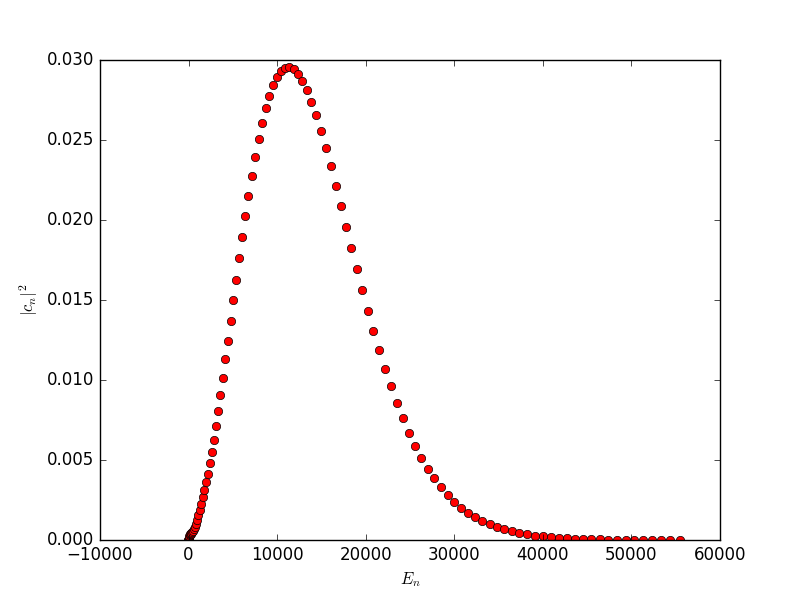
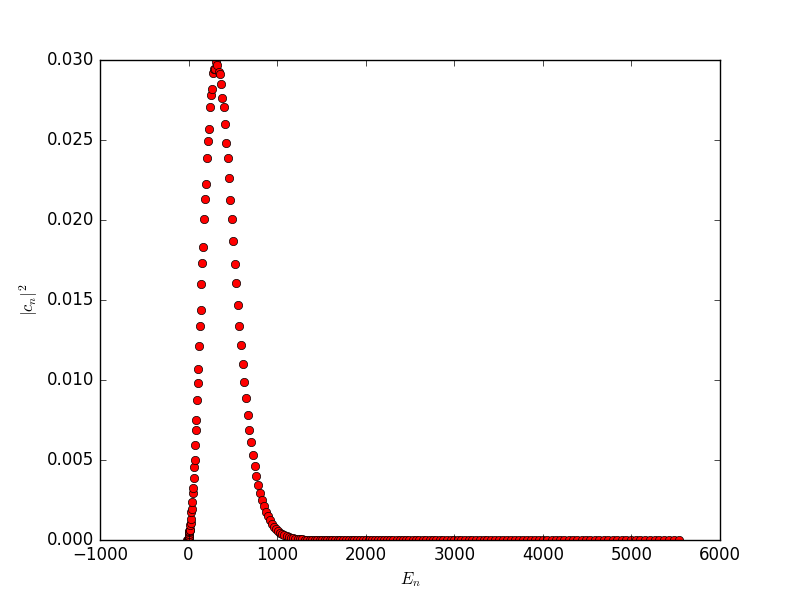
Make energy spectrum for WiW wave package and change number of cn's to 200

diff --git a/Python/WiW_wavePackageEnergySpectrum.py b/Python/WiW_wavePackageEnergySpectrum.py
@@ -15,14 +15,18 @@ x0 = 2.5;
 sigma = 0.1;
 k0 = 25;
 
-# Normalize the custom wave function and get the cn's
+# Normalize the custom wave function
 fun = np.exp(-1/2 * (x-x0)**2/sigma**2) * np.exp(-1j*k0*x)
 
 A = 1/np.sqrt(np.trapz(np.abs(fun)**2, x = x))
 
 fun = A * fun
 
-cn = getcn(x, fun)
+# Initialize the positive energies
+pos.findEnergies(200)
+
+# Get the cn's
+cn = getcn(x, fun, n=200)
 
 # Check normalization
 

diff --git a/Python/WiW_wavePackageSimultaneousPlot.py b/Python/WiW_wavePackageSimultaneousPlot.py
@@ -25,10 +25,10 @@ A = 1/np.sqrt(np.trapz(np.abs(fun)**2, x = x))
 fun = A * fun
 
 # Initialize the positive energies
-pos.findEnergies(400)
+pos.findEnergies(200)
 
 # Get the cn's
-cn = getcn(x, fun, n=400)
+cn = getcn(x, fun, n=200)
 
 # Check normalization
 
